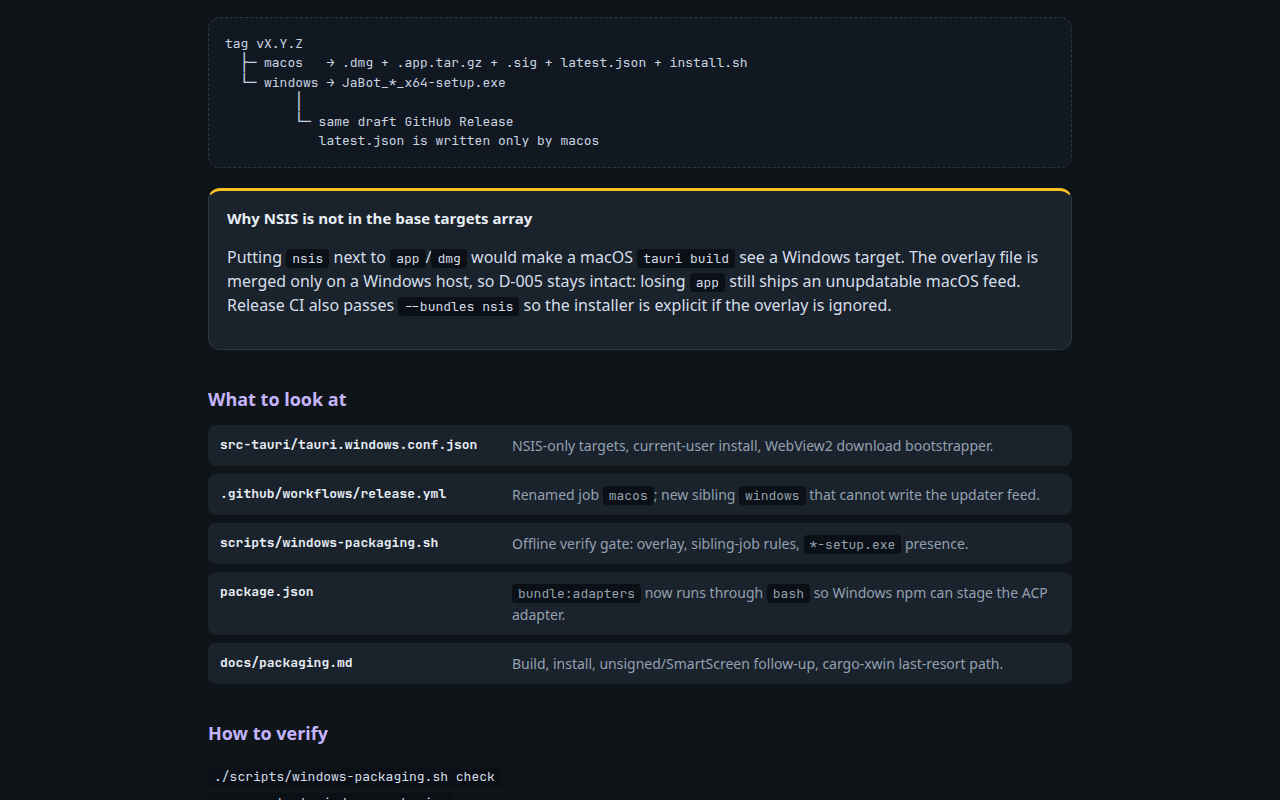
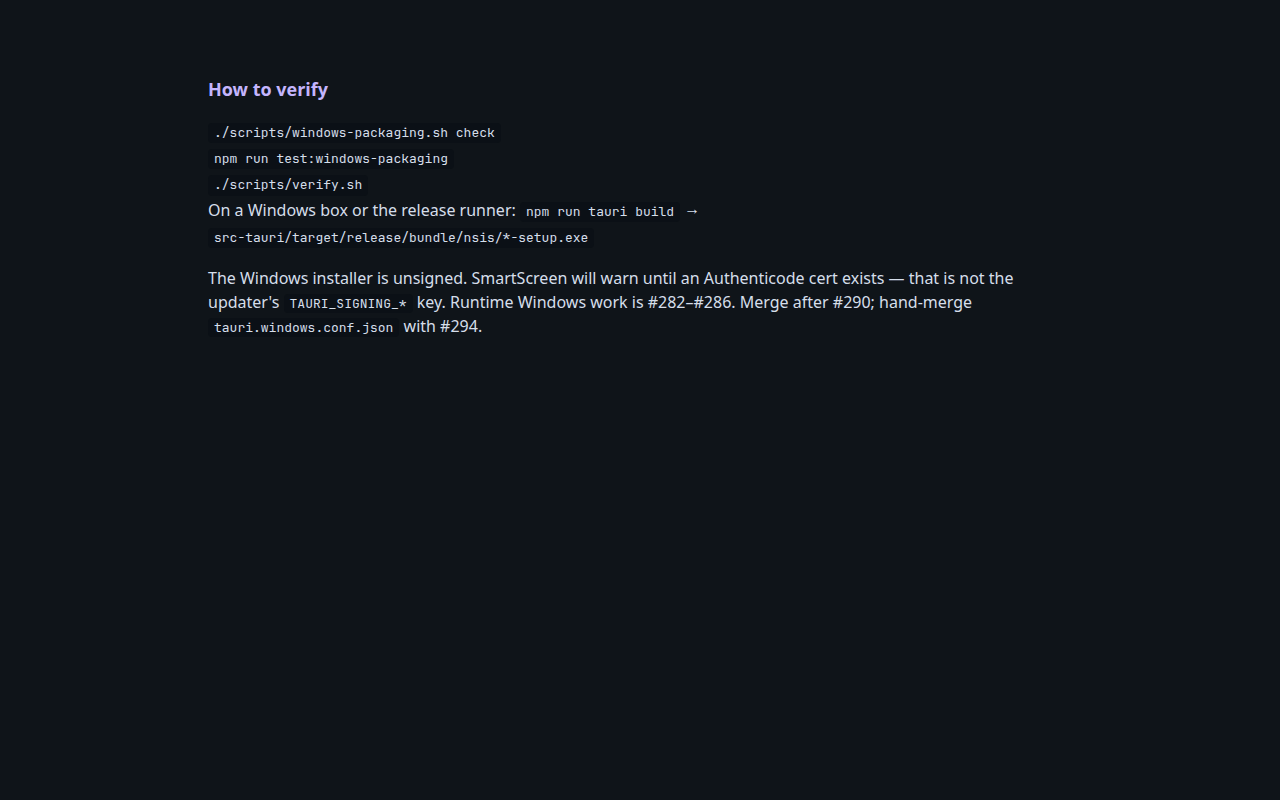
Pin the Windows release job so it cannot empty draft notes or latest.json.
Pinned tauri-action does not update name/body on an existing draft and
defaults uploadUpdaterJson to true. Give the windows job the same
releaseBody as macos, set uploadUpdaterJson: false, and point npm's
script-shell at Git Bash before tauri build so bundle:adapters actually
runs on windows-latest. The packaging gate and refusal fixtures pin all
three.

diff --git a/docs/img/pr-291-windows-packaging/walkthrough.html b/docs/img/pr-291-windows-packaging/walkthrough.html
@@ -77,7 +77,7 @@
     <h1>Windows NSIS packaging and release artifacts</h1>
     <p class="lede">#281 / PR: add a Windows installer next to the existing macOS dmg, without letting that job rewrite <code>latest.json</code>.</p>
 
-    <h2>How it works</h2>
+    <h2 id="how-it-works">How it works</h2>
     <div class="flow">
       <section class="card mac">
         <h3><span class="tag mac">Before / still true</span></h3>
@@ -92,15 +92,18 @@
         <ul>
           <li><code>tauri.windows.conf.json</code> overlays <code>targets: ["nsis"]</code> on Windows only.</li>
           <li>Sibling <code>windows</code> job on <code>windows-latest</code> uploads <code>*-setup.exe</code>.</li>
-          <li>No <code>createUpdaterArtifacts</code>, no <code>APPLE_*</code>, no <code>TAURI_SIGNING_*</code> on that runner.</li>
+          <li><code>uploadUpdaterJson: false</code>, no <code>createUpdaterArtifacts</code>, no <code>APPLE_*</code>, no <code>TAURI_SIGNING_*</code>.</li>
+          <li>Same <code>releaseBody</code> as macos (draft notes race). npm <code>script-shell</code> = Git Bash before <code>tauri build</code>.</li>
         </ul>
       </section>
     </div>
 
     <div class="pipe">tag vX.Y.Z
   ├─ macos   → .dmg + .app.tar.gz + .sig + latest.json + install.sh
+  │            (writes full releaseBody)
   └─ windows → JaBot_*_x64-setup.exe
-         │
+         │     uploadUpdaterJson: false
+         │     same releaseBody (tauri-action will not update a draft)
          └─ same draft GitHub Release
             latest.json is written only by macos</div>
 
@@ -109,23 +112,23 @@
       <p>Putting <code>nsis</code> next to <code>app</code>/<code>dmg</code> would make a macOS <code>tauri build</code> see a Windows target. The overlay file is merged only on a Windows host, so D-005 stays intact: losing <code>app</code> still ships an unupdatable macOS feed. Release CI also passes <code>--bundles nsis</code> so the installer is explicit if the overlay is ignored.</p>
     </section>
 
-    <h2>What to look at</h2>
+    <h2 id="what-to-look-at">What to look at</h2>
     <div class="files">
       <div class="file"><strong>src-tauri/tauri.windows.conf.json</strong><span>NSIS-only targets, current-user install, WebView2 download bootstrapper.</span></div>
-      <div class="file"><strong>.github/workflows/release.yml</strong><span>Renamed job <code>macos</code>; new sibling <code>windows</code> that cannot write the updater feed.</span></div>
-      <div class="file"><strong>scripts/windows-packaging.sh</strong><span>Offline verify gate: overlay, sibling-job rules, <code>*-setup.exe</code> presence.</span></div>
+      <div class="file"><strong>.github/workflows/release.yml</strong><span>Renamed job <code>macos</code>; sibling <code>windows</code> with <code>uploadUpdaterJson: false</code>, shared <code>releaseBody</code>, Git Bash <code>script-shell</code>.</span></div>
+      <div class="file"><strong>scripts/windows-packaging.sh</strong><span>Offline verify gate plus refusal fixtures: overlay, draft notes, updater JSON, adapter staging.</span></div>
       <div class="file"><strong>package.json</strong><span><code>bundle:adapters</code> now runs through <code>bash</code> so Windows npm can stage the ACP adapter.</span></div>
       <div class="file"><strong>docs/packaging.md</strong><span>Build, install, unsigned/SmartScreen follow-up, cargo-xwin last-resort path.</span></div>
     </div>
 
-    <h2>How to verify</h2>
+    <h2 id="how-to-verify">How to verify</h2>
     <p class="verify">
       <code>./scripts/windows-packaging.sh check</code><br />
       <code>npm run test:windows-packaging</code><br />
       <code>./scripts/verify.sh</code><br />
       On a Windows box or the release runner: <code>npm run tauri build</code> → <code>src-tauri/target/release/bundle/nsis/*-setup.exe</code>
     </p>
-    <p>The Windows installer is unsigned. SmartScreen will warn until an Authenticode cert exists — documented follow-up, not a packaging bug. Runtime Windows work is #282–#286.</p>
+    <p>The Windows installer is unsigned. SmartScreen will warn until an Authenticode cert exists — that is not the updater's <code>TAURI_SIGNING_*</code> key. Runtime Windows work is #282–#286. Merge after #290; hand-merge <code>tauri.windows.conf.json</code> with #294.</p>
   </main>
 </body>
 </html>

diff --git a/docs/packaging.md b/docs/packaging.md
@@ -189,9 +189,12 @@ headless macOS bundle job, or a Playwright WebKit run, as that step.
      ticket, and uploads the `.dmg`, the `.app.tar.gz` + `.sig`,
      `latest.json`, and `install.sh`.
    - **windows** builds `x86_64-pc-windows-msvc` with `--bundles nsis` and
-     uploads `JaBot_*_x64-setup.exe`. It does **not** merge
-     `createUpdaterArtifacts` and does not see `TAURI_SIGNING_*` or
-     `APPLE_*`, so it cannot rewrite the macOS feed.
+     uploads `JaBot_*_x64-setup.exe`. It sets `uploadUpdaterJson: false`,
+     does **not** merge `createUpdaterArtifacts`, and does not see
+     `TAURI_SIGNING_*` or `APPLE_*`, so it cannot rewrite the macOS feed.
+     Both jobs carry the same `releaseBody`: pinned tauri-action will not
+     update name/body on an existing draft, so whoever creates the draft
+     writes the full notes (macOS `curl | bash` + unsigned / SmartScreen).
 5. Download the `.dmg` and run the verification below. On a Windows box,
    run the `*-setup.exe` (SmartScreen → More info → Run anyway) and confirm
    JaBot lands under the current-user install directory.
@@ -475,9 +478,14 @@ npm run tauri build -- --target x86_64-pc-windows-msvc --bundles nsis
 ```
 
 Do **not** pass `--config {"bundle":{"createUpdaterArtifacts":true}}` on
-Windows. That flag is how the macOS job writes `latest.json`. A Windows
-build that emits updater artifacts would race the macOS job for the same
-asset, and the updater plugin looks up `darwin-*` only.
+Windows, and do **not** set `uploadUpdaterJson: true` (that is the
+tauri-action default). `createUpdaterArtifacts` is how the macOS *bundler*
+emits `.sig` archives; `uploadUpdaterJson` is how the *action* rewrites
+`latest.json` if it sees a `.sig` on the draft. A Windows job that leaves
+the upload default on would race the macOS job for the same asset the
+moment a signature file exists. The updater plugin looks up `darwin-*`
+only. `TAURI_SIGNING_*` is that feed's minisign key — it is not
+Authenticode and does not belong on this runner.
 
 ### Cross-build from Linux or macOS
 
@@ -497,32 +505,51 @@ See [Tauri's Windows installer guide](https://v2.tauri.app/distribute/windows-in
 ### What the release job does
 
 `.github/workflows/release.yml` `windows` job, on `windows-latest`, parallel
-with `macos`:
+with `macos` (both write the same `releaseBody` onto the shared draft):
 
 1. Same version preflight as macOS (tag must match `tauri.conf.json`).
-2. `npm ci` then tauri-action with `--target x86_64-pc-windows-msvc --bundles nsis`.
-3. Upload the setup.exe to the **same draft** GitHub Release.
-4. `./scripts/windows-packaging.sh artifacts` — the file exists and is
+2. Point npm's `script-shell` at Git Bash (`npm config set script-shell
+   "$(command -v bash)"`). `beforeBuildCommand` is spawned by the Tauri
+   CLI, not this job's `defaults.run.shell`; without this, `bundle:adapters`
+   does not run on `windows-latest`.
+3. `npm ci` then tauri-action with `--target x86_64-pc-windows-msvc
+   --bundles nsis` and `uploadUpdaterJson: false`.
+4. Upload the setup.exe to the **same draft** GitHub Release.
+5. `./scripts/windows-packaging.sh artifacts` — the file exists and is
    non-empty. Not Authenticode, not SmartScreen, not a launched app.
 
 `scripts/windows-packaging.sh check` (inside `./scripts/verify.sh`) is the
 offline gate: overlay targets stay NSIS, macOS `app`/`dmg` stay in the
 base config, the windows job still cannot see `APPLE_*` or `TAURI_SIGNING_*`,
-and it still does not merge `createUpdaterArtifacts`.
+it still does not merge `createUpdaterArtifacts`, `uploadUpdaterJson` is
+false, `releaseBody` still carries the SmartScreen warning, and npm's
+script-shell is still pointed at bash.
+
+If a PR is labelled `windows-package` (#290) and a `v*` tag is cut later,
+NSIS may be built twice (CI artifact + this release upload). Wasteful, not
+conflicting; tag NSIS is this job.
 
 ### Authenticode / SmartScreen (follow-up)
 
-Not blocked on #281, and not available in this repo today. When a cert
-exists:
+Not blocked on #281, and not available in this repo today. Authenticode
+(the Windows OS signature SmartScreen looks at) is a **different key**
+from the updater's `TAURI_SIGNING_*` Ed25519 pair. Do not put the updater
+key on the windows runner just because a code-signing cert now exists —
+that would make `uploadUpdaterJson`'s implicit skip fail and race
+`latest.json`.
+
+When an Authenticode cert exists:
 
 1. Store the certificate (or Azure Trusted Signing credentials) as
    repository secrets. Do **not** commit a thumbprint of a cert we do not
    have.
-2. Set `bundle.windows.certificateThumbprint` / `signCommand` (or the
-   `TAURI_SIGNING_*` Windows equivalents Tauri documents) only in the
-   windows job, never in the macos job.
-3. Keep `createUpdaterArtifacts` off on Windows until the updater plugin
-   is actually registered there.
+2. Set `bundle.windows.certificateThumbprint` and/or `signCommand` (Azure
+   Trusted Signing goes through `signCommand`) only in the windows job,
+   never in the macos job. Those are Authenticode knobs.
+3. Keep `TAURI_SIGNING_*` off this runner. Keep `createUpdaterArtifacts`
+   off and `uploadUpdaterJson: false` until the updater plugin is actually
+   registered on Windows. The updater key signs `latest.json`; it does
+   not silence SmartScreen.
 4. Budget time for SmartScreen reputation: a newly signed publisher still
    warns until enough users have run the binary.
 

diff --git a/CONTRIBUTING.md b/CONTRIBUTING.md
@@ -135,7 +135,7 @@ one run tells you everything that is wrong.
 | `toolchain` | your rustc/clippy/node match what CI would use, and clear the declared MSRV floor | `rustup update stable` for drift; if it says clippy and rustc disagree, that is a half-finished update and clippy is lying to you (D-014). A *warning* here about local stable being old is worth acting on before you trust a green clippy. |
 | `lockfiles` | `package-lock.json` satisfies `package.json`, `Cargo.lock` satisfies `src-tauri/Cargo.toml`, and `src-tauri/vendor/adapters`' lock satisfies its own manifest | `npm install` or `cargo update -p <crate>` and commit the lock. CI runs `npm ci`, which refuses to install through this. For the vendored adapters, `npm install --prefix src-tauri/vendor/adapters` and commit both files. |
 | `bundle-config` | the packaging config the macOS job reads is still sane without macOS: `bundle.targets` still has `app`, `createUpdaterArtifacts` is still false, every icon exists, every `bundle.resources` path exists, `entitlements.plist` parses, every `src/bin/*.rs` is still gated behind `dev-bins` | read the message — each case names the release that would have shipped broken. D-005 is the cautionary one: a build that succeeds and ships an unupdatable app. |
-| `windows packaging` | NSIS is still the Windows installer, `tauri.windows.conf.json` does not list `msi`/`app`/`dmg`, publisher + `icon.ico` are present, `bundle:adapters` still goes through bash, and `release.yml`'s windows job still cannot write `latest.json` or see Apple / updater-signing secrets (`scripts/windows-packaging.sh`) | you changed Windows packaging; run `./scripts/windows-packaging.sh check` and `npm run test:windows-packaging` |
+| `windows packaging` | NSIS is still the Windows installer, `tauri.windows.conf.json` does not list `msi`/`app`/`dmg`, publisher + `icon.ico` are present, `bundle:adapters` still goes through bash, npm's `script-shell` is pointed at Git Bash, and `release.yml`'s windows job still cannot write `latest.json` (`uploadUpdaterJson: false`, no `createUpdaterArtifacts`, no Apple / updater-signing secrets) and still carries `releaseBody` (`scripts/windows-packaging.sh`) | you changed Windows packaging; run `./scripts/windows-packaging.sh check` and `npm run test:windows-packaging` |
 | `commit guards` | `checkpoint.sh`, `pre-push` and `install-hooks.sh` still refuse what they claim to refuse (`scripts/tests/guards.test.sh`, ~7s, throwaway repos) | you changed the guards; run `npm run test:guards` directly, the failing case names the refusal that stopped working |
 | `macos lint tests` | the path planner that turns CI's macOS jobs on still matches what `docs/macos-lint.md` claims (`scripts/tests/macos-lint.test.sh`) | you changed the planner or the notify/native check scripts; run `./scripts/tests/macos-lint.test.sh` |
 | `coverage policy` | the frontend include/exclude list and 90/85/80 floors still fail a fixture that violates them (`scripts/tests/coverage.test.sh`) | you changed coverage config or CI upload wiring; run `npm run test:coverage:policy`. Scope and the unit-vs-e2e split: [docs/coverage.md](docs/coverage.md) |

diff --git a/docs/requirements/packaging-distribution.md b/docs/requirements/packaging-distribution.md
@@ -48,7 +48,9 @@ last mile between "builds locally" and "someone else can run it."
    `windows` job. Identifier and product name stay `com.jabot.app` /
    `JaBot`. Authenticode / SmartScreen reputation are documented
    follow-up, not a prerequisite for the unsigned artifact. The Windows
-   job must not write `latest.json`. See [`docs/packaging.md`](../packaging.md).
+   job must not write `latest.json` (`uploadUpdaterJson: false`; no
+   `TAURI_SIGNING_*` — that is the updater minisign key, not Authenticode).
+   See [`docs/packaging.md`](../packaging.md).
 
 Windows install, the gap list vs macOS, and the smoke checklist are
 [#287](https://github.com/jabreeflor/jabot/issues/287) /
